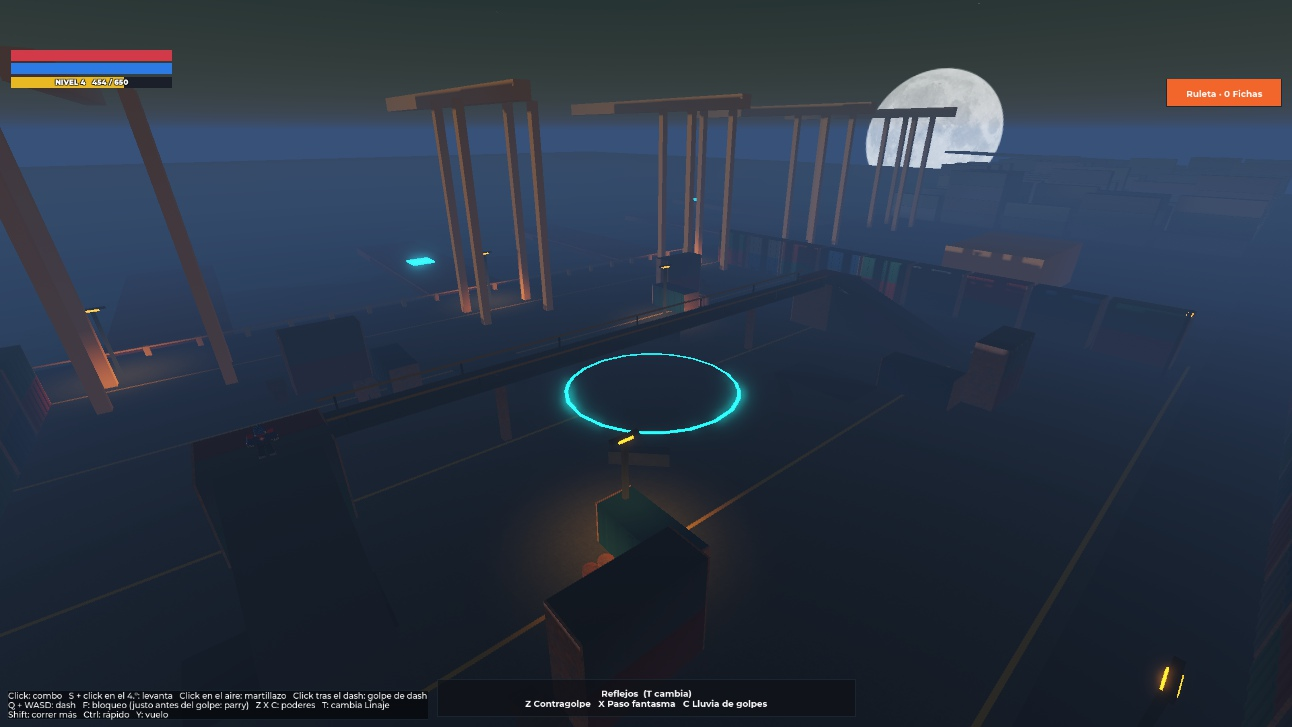
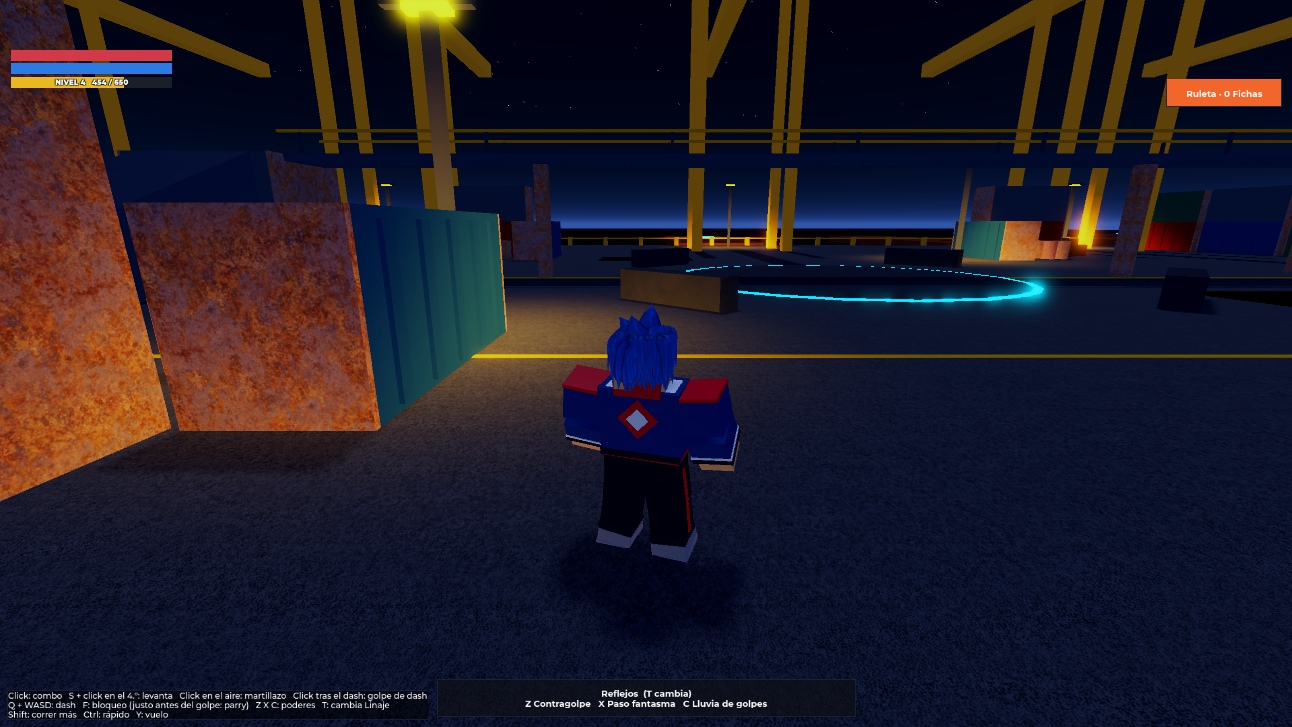
Linajes: iluminacion por horas y arena mas legible de noche

diff --git a/linajes/boveda/08 Lugares/Arena del sandbox.md b/linajes/boveda/08 Lugares/Arena del sandbox.md
@@ -10,3 +10,10 @@ Primera versión, 7 nov 2026. Se genera con `linajes/src/server/ArenaMapa.server
 - **Bordes:** contenedores dobles al sur, este y oeste; baranda al mar al norte.
 
 Pendiente: piso y objetos que se rompan, eventos, y cambiar las piezas de bloques por los modelos de `arte/exports/puerto-oxido/`.
+
+## Luz (7 nov)
+Por horas en `Config.Mundo.Luz`; se mezcla en `Clima.client.luau`. Noche azul y legible, con faroles de sodio como luz principal. Niebla más baja dentro de la arena para ver al rival.
+
+Referencias: [Develuper](https://www.youtube.com/watch?v=vkEXLmRAQgs), [DevForum, paso a paso](https://devforum.roblox.com/t/improve-lighting-step-by-step/1387033). Regla que tomamos: la noche se resuelve con luces locales, no con oscuridad.
+
+Para probar una hora: atributo `HoraPrueba` en Lighting.
